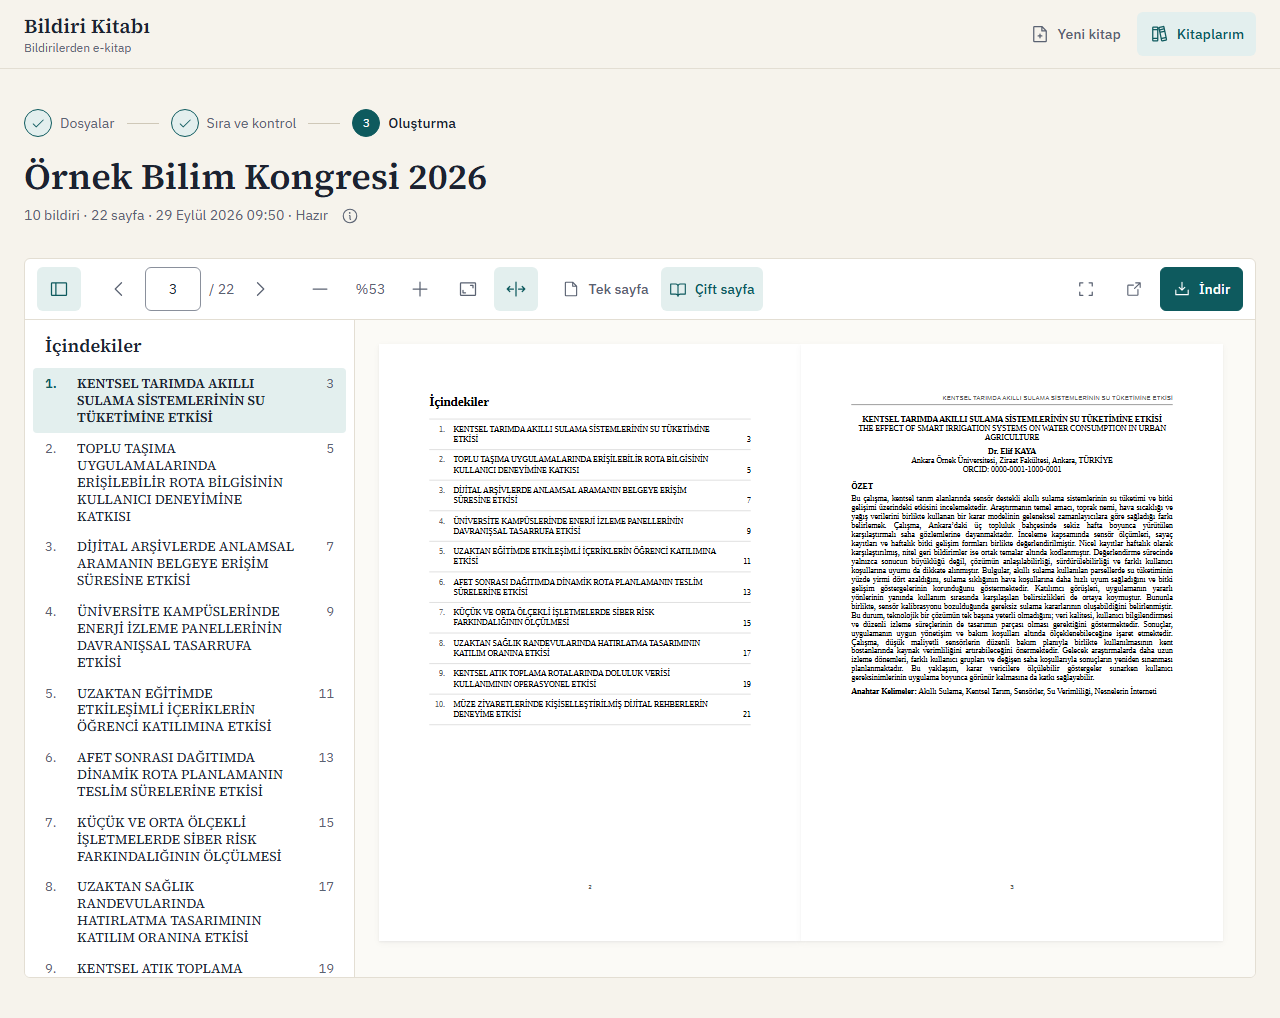
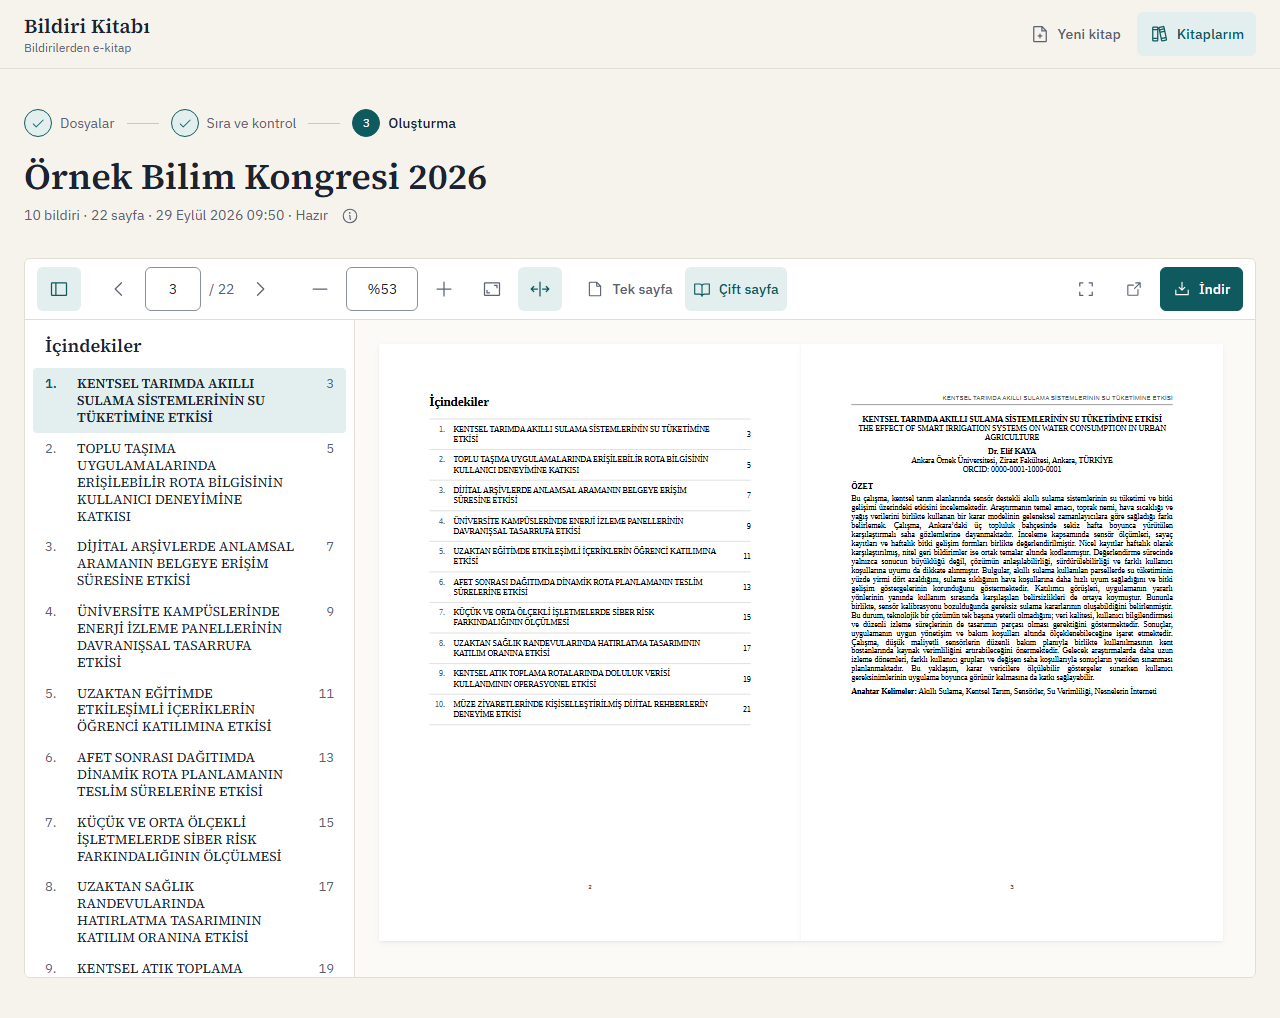
docs: README'de İçindekiler numara hizası ve yazılabilir yakınlaştırma yüzdesi anlatıldı, test sayısı güncellendi; görüntüleyici ekran görüntüleri yenilendi

Changed region(s): [[0.3438, 0.2436, 0.625, 0.3045], [0.2812, 0.2741, 0.3125, 0.3045]]

diff --git a/README.md b/README.md
@@ -323,11 +323,11 @@ Sırasıyla: (1) çözümlenen stil adı `Title` veya `heading 1` olan ilk boş 
 
 - A4 sayfa, 2,5 cm kenar boşluğu; gövde yazı tipi kaynaktaki puntoyla Liberation Serif, serif olmayan yazı tipleri Liberation Sans'a eşlenir. Heceleme kapalıdır.
 - Sayfa 1 kapaktır (kitap adı, "Bildiri Kitabı", bildiri sayısı, `tr-TR` biçiminde oluşturulma tarihi); numarası basılmaz.
-- İçindekiler 2. sayfadan başlar, gerekirse birden çok sayfaya taşar. Her satırda solda sıra numarası, ortada başlık, sağda başlığın son satırıyla hizalı başlangıç sayfası bulunur; girdiler arasında ince açık gri bir çizgi vardır. Satır tıklanabilir bir iç bağlantıdır.
+- İçindekiler 2. sayfadan başlar, gerekirse birden çok sayfaya taşar. Her satırda solda sıra numarası, ortada başlık, sağda başlığın satırlarının dikey ortasına hizalı başlangıç sayfası bulunur (tek satırlık başlıkta o satırla aynı hizada; sıra numarası ilk satırla hizalıdır); girdiler arasında ince açık gri bir çizgi vardır. Satır tıklanabilir bir iç bağlantıdır.
 - Her bildiri yeni sayfada başlar ve QuestPDF'te adlandırılmış bir bölüm (section) olarak dizilir. İçindekiler'deki numara, dizgi motorunun o bölümün ilk sayfası için verdiği numaradır (`BeginPageNumberOfSection`); elle hesap veya tahmin yoktur, bu yüzden İçindekiler'in kendisi uzasa bile numaralar doğru kalır.
 - Basılı sayfa numarası fiziksel sayfa sırasıdır (kapak 1 sayılır). Böylece İçindekiler'deki numara PDF görüntüleyicinin sayfa kutusundaki numarayla aynıdır; "sayfa 11" yazan başlık görüntüleyicide 11. sayfadadır. Roma rakamlı ön sayfalar bu eşleşmeyi bozacağı için seçilmedi.
 - İçerik sayfalarının üst bilgisi basılı kitaplardaki gibidir: çift numaralı (sol) sayfalarda sola hizalı kitap adı, tek numaralı (sağ) sayfalarda sağa hizalı bildiri başlığı. Metin hiçbir zaman kesilmez ve üç nokta kullanılmaz: tek satıra sığana kadar 9 → 8,5 → 8 → 7,5 → 7 pt küçültülür, 7 pt'de de sığmazsa iki satıra kırılır. Genişlik QuestPDF'in kendi ölçümüyle (gömülü yazı tiplerinin gerçek glif genişlikleri, yedek yazı tipleri dahil) bulunur. Alt bilgide ortada sayfa numarası vardır.
-- İçindekiler'de sayfa numarası, başlığın son satırının taban çizgisiyle aynı hizadadır (testte en fazla 0,5 pt fark).
+- İçindekiler'de sayfa numarasının dikey merkezi, girdinin başlık satırlarının dikey merkeziyle aynıdır (testte en fazla 1 pt fark). Numara başlıktan sonra çizildiği için PDF'ten metin kopyalanırken veya aranırken her girdide önce başlık, sonra sayfa numarası gelir (pdf.js gibi çizim sırasını izleyen okuyucularda; testte de bu sırayla okunur).
 - PDF üst verisi (başlık, oluşturan) uygulama tarafından yazılır; kaynak belgelerin üst verisi (başlık, yazar, son değiştiren) PDF'e taşınmaz.
 
 ### Yazı tipleri ve desteklenmeyen karakterler
@@ -422,7 +422,7 @@ MassTransit yerine doğrudan `RabbitMQ.Client` kullanıldı: tek kuyruk ve tek m
 - **Sonuç ve hata:** tamamlanınca başlığın altındaki tek satır durumu özetler (`10 bildiri · 22 sayfa · tarih · Hazır`) ve görüntüleyici açılır. Temizlenen e-posta ve telefon sayıları, satırın sonundaki bilgi düğmesinin açtığı küçük panelde toplam ve bildiri bazında gösterilir. Hata durumunda sunucunun Türkçe mesajı, "Tekrar dene" ve "Sırayı düzenle" seçenekleri gösterilir.
 - **Kitaplarım:** her satırda doğrudan bir "Sil" düğmesi (telefonda yalnızca simge) ve onay diyaloğu vardır; kitap kuyrukta veya hazırlanırken düğme pasiftir ve nedeni ipucunda yazar.
 - **Etkileşim:** tıklanabilir her öğede el imleci, pasif öğelerde "izin yok" imleci; tüm düğmelerde belirgin hover ve basılı durumları (130 ms, azaltılmış harekette geçiş yok); "Kaldır" ve "Sil" gibi yıkıcı eylemler normalde nötr, üzerine gelindiğinde veya klavye odağında kırmızıdır. Kaydırma çubukları ince ve uygulamanın renklerindedir.
-- **Görüntüleyici:** hazır kitapta ekranın tam genişliğini (en fazla yaklaşık 1800 px) ve pencere yüksekliğini kullanır. Varsayılan açılış çift sayfa ve genişliğe sığdırmadır; 1920 × 1080 bir ekranda gövde metni yaklaşık 13 px'tir. Sığdırma modlarında yatay kaydırma olmaz; "Sayfaya sığdır" sayfaları tamamen gösterir. Kapak ve tek kalan son sayfa ortada durur, karşılıklı sayfalar ortada birleşir. Yakınlaştırma yüzdesi gerçek boyuta göredir (%100 = A4'ün 96 dpi'deki boyutu); yakınlaştırınca görünen bölgenin ortası yerinde kalır, sayfa değişmez. Sol panelde (daraltılabilir, 330 px) İçindekiler ve vurgulu olarak bulunulan bildiri; araç çubuğunda sayfa gezinme, yakınlaştırma, tek/çift sayfa, tam ekran ve indirme bulunur. Geçerli sayfa adres çubuğunda (`?sayfa=`) tutulur. Sayfalar ekran yoğunluğuna ve yakınlaştırmaya göre (üst sınırlı) net çizilir.
+- **Görüntüleyici:** hazır kitapta ekranın tam genişliğini (en fazla yaklaşık 1800 px) ve pencere yüksekliğini kullanır. Varsayılan açılış çift sayfa ve genişliğe sığdırmadır; 1920 × 1080 bir ekranda gövde metni yaklaşık 13 px'tir. Sığdırma modlarında yatay kaydırma olmaz; "Sayfaya sığdır" sayfaları tamamen gösterir. Kapak ve tek kalan son sayfa ortada durur, karşılıklı sayfalar ortada birleşir. Yakınlaştırma yüzdesi gerçek boyuta göredir (%100 = A4'ün 96 dpi'deki boyutu) ve %25–%400 arasındadır. Araç çubuğundaki yüzde kutusuna "150", "%150" veya "150%" yazılabilir: tıklayınca değer seçilir, Enter'la veya kutudan çıkınca uygulanır, Esc iptal eder, ↑ / ↓ 10'ar puan değiştirir; aralık dışı değer sınıra çekilir, sayı olmayan değer yok sayılır. Elle girilen yüzde sığdırma modunu kapatır; + / − düğmeleri aynı sınırları kullanır. Yakınlaştırınca görünen bölgenin ortası yerinde kalır, sayfa değişmez. Sol panelde (daraltılabilir, 330 px) İçindekiler ve vurgulu olarak bulunulan bildiri; araç çubuğunda sayfa gezinme, yakınlaştırma, tek/çift sayfa, tam ekran ve indirme bulunur. Geçerli sayfa adres çubuğunda (`?sayfa=`) tutulur. Sayfalar ekran yoğunluğuna ve yakınlaştırmaya göre (üst sınırlı) net çizilir.
 - **Mobil:** görüntüleyici tek sayfa ve genişliğe sığdırılmış açılır. A4 sayfa telefonda küçük kaldığı için alttaki sabit araç çubuğunda yakınlaştır / uzaklaştır düğmeleri vardır; çift dokunma, dokunulan noktayı ortada tutarak genişliğe sığdır ile %200 arasında geçiş yapar. Yakınlaştırılmış sayfa iki eksende kaydırılır; tarayıcının kendi sıkıştırarak yakınlaştırması da açıktır. İçindekiler alttan açılan bir panelde gösterilir.
 - **Erişilebilirlik:** tüm akış klavyeyle kullanılabilir; aşama değişiklikleri ve sıra değişiklikleri ekran okuyuculara duyurulur; renk çiftlerinin kontrast oranları birim testle (metin 4.5:1, arayüz öğeleri 3:1) doğrulanır; dokunma hedefleri en az 44 px'tir; her ekran E2E testlerinde axe ile taranır.
 
@@ -463,8 +463,8 @@ Development ortamında OpenAPI belgesi `/openapi/v1.json`, etkileşimli referans
 | Komut | Kapsam | Sayı |
 |---|---|---|
 | `cd backend && dotnet test` | Birim testleri (`BildiriKitabi.UnitTests`): okuma, stil çözümleme, temizlik, başlık, doğrulama, durum geçişleri, depolama, kuyruk yapılandırması. Entegrasyon testleri (`BildiriKitabi.IntegrationTests`): örnek bildirilerle uçtan uca PDF, dizgi ve sızıntı tarayıcısı, yazı tipi yedekleri, migration ve kısıtlar, API uçları ve yaşam döngüsü, RabbitMQ topolojisi, onay, DLQ, yeniden teslim ve broker kesintisi. | 368 |
-| `cd frontend && npm run test` | Bileşen ve birim testleri (Vitest, Testing Library, MSW): sayfalar, dosya seçimi, hata eşleme, görüntüleyici, sayfa hesapları, kontrast. | 241 |
-| `cd frontend && npm run test:e2e` | Playwright, masaüstü ve mobil: gerçek API (kendi veritabanıyla, Release derlemesi) ve Vite geliştirme sunucusu otomatik başlatılır; mutlu yol, doğrulama, hata ve bekleme ekranları, liste ve silme, görüntüleyici (1920 px varsayılan açılış, yakınlaştırma, mobilde çift dokunma), düzen, axe ile erişilebilirlik taraması. | 16 |
+| `cd frontend && npm run test` | Bileşen ve birim testleri (Vitest, Testing Library, MSW): sayfalar, dosya seçimi, hata eşleme, görüntüleyici, sayfa hesapları, kontrast. | 250 |
+| `cd frontend && npm run test:e2e` | Playwright, masaüstü ve mobil: gerçek API (kendi veritabanıyla, Release derlemesi) ve Vite geliştirme sunucusu otomatik başlatılır; mutlu yol, doğrulama, hata ve bekleme ekranları, liste ve silme, görüntüleyici (1920 px varsayılan açılış, yakınlaştırma ve yazılan yüzde, mobilde çift dokunma), düzen, axe ile erişilebilirlik taraması. | 16 |
 | `cd frontend && npm run test:e2e:docker` | Aynı E2E testleri çalışan Docker kurulumuna karşı (varsayılan http://localhost:8080, `E2E_BASE_URL` ile değiştirilebilir); ayrıca nginx'in CSP'si altında CSP ihlali olmadığını doğrular. | 16 |
 
 Diğer kontroller: `npm run lint`, `npm run typecheck`, `npm run build`. İlk E2E çalıştırmasından önce tarayıcı bir kez kurulmalıdır: `npx playwright install chromium`.
